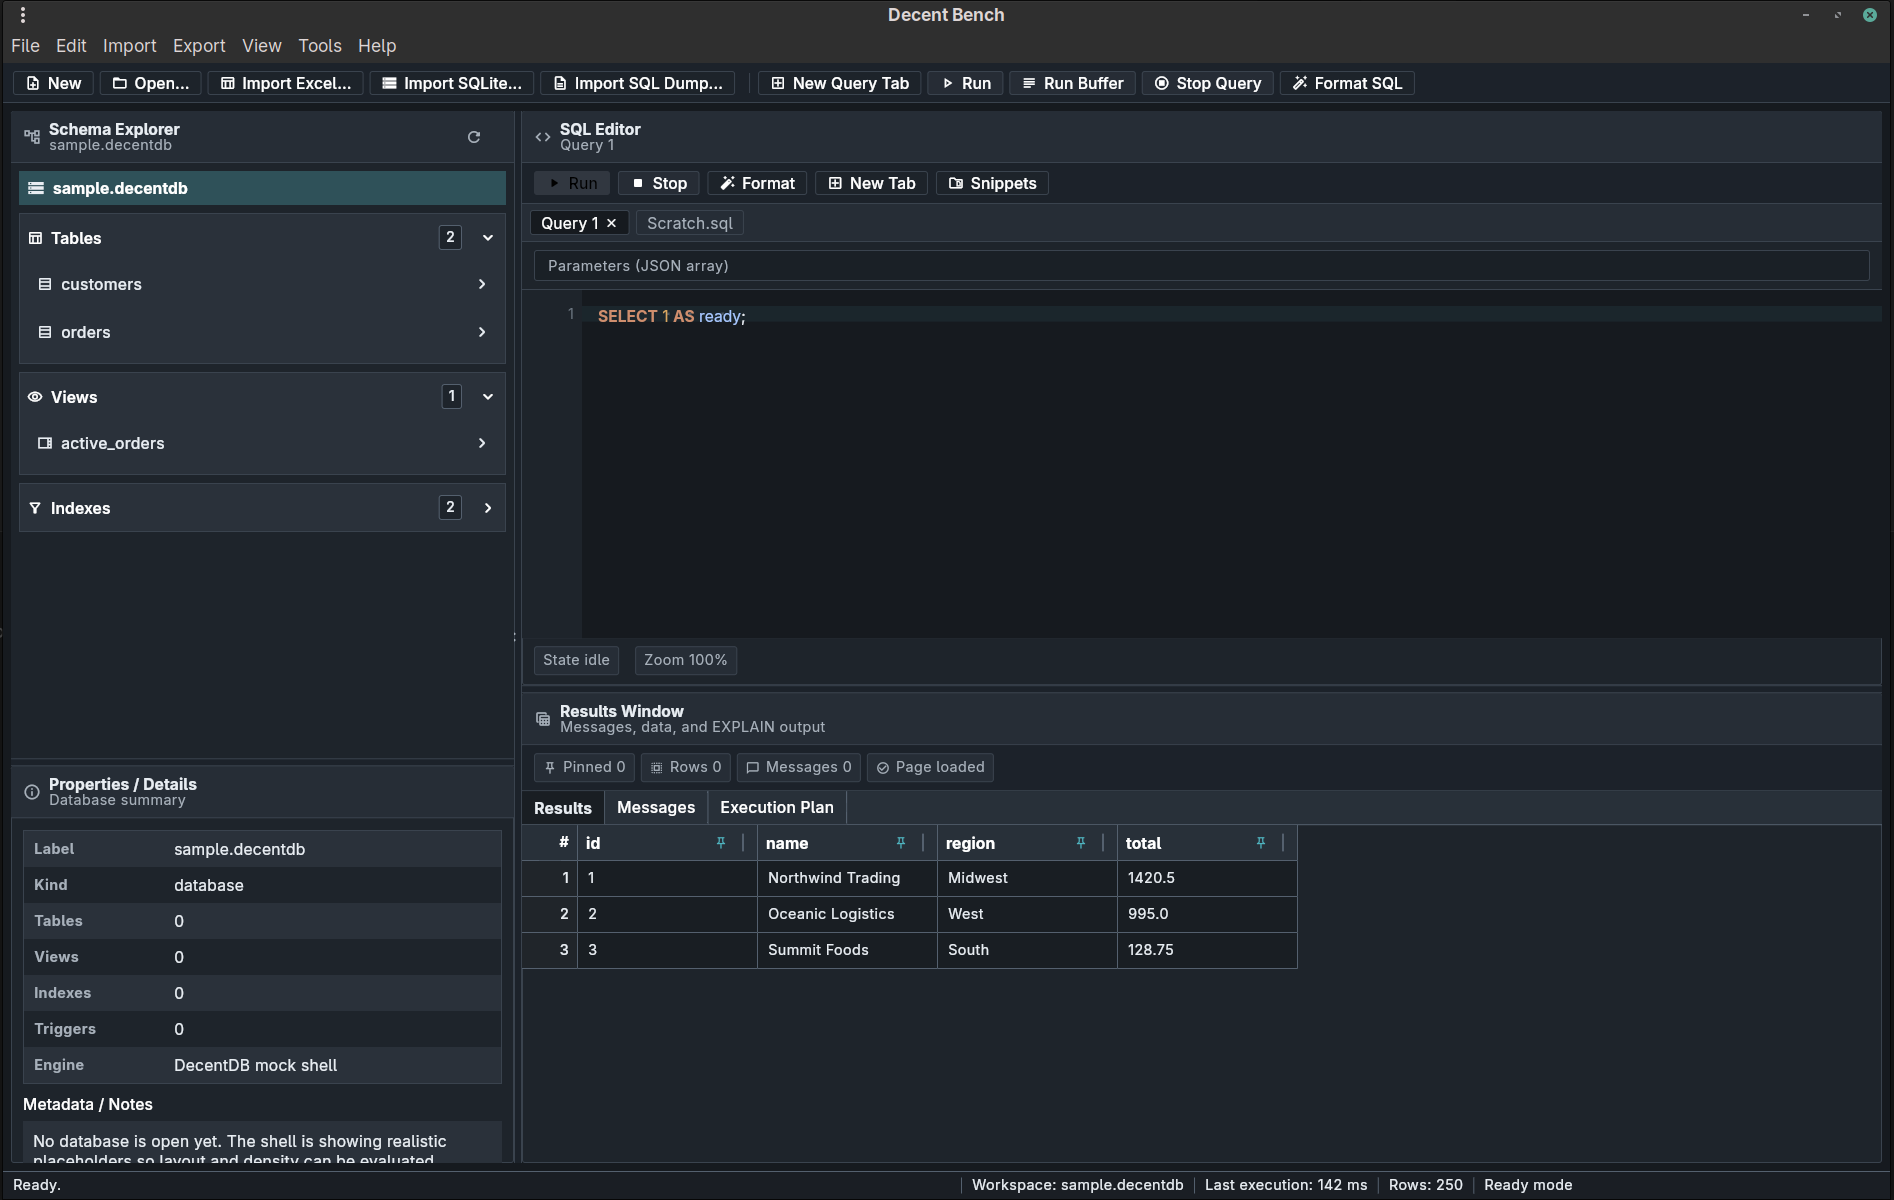
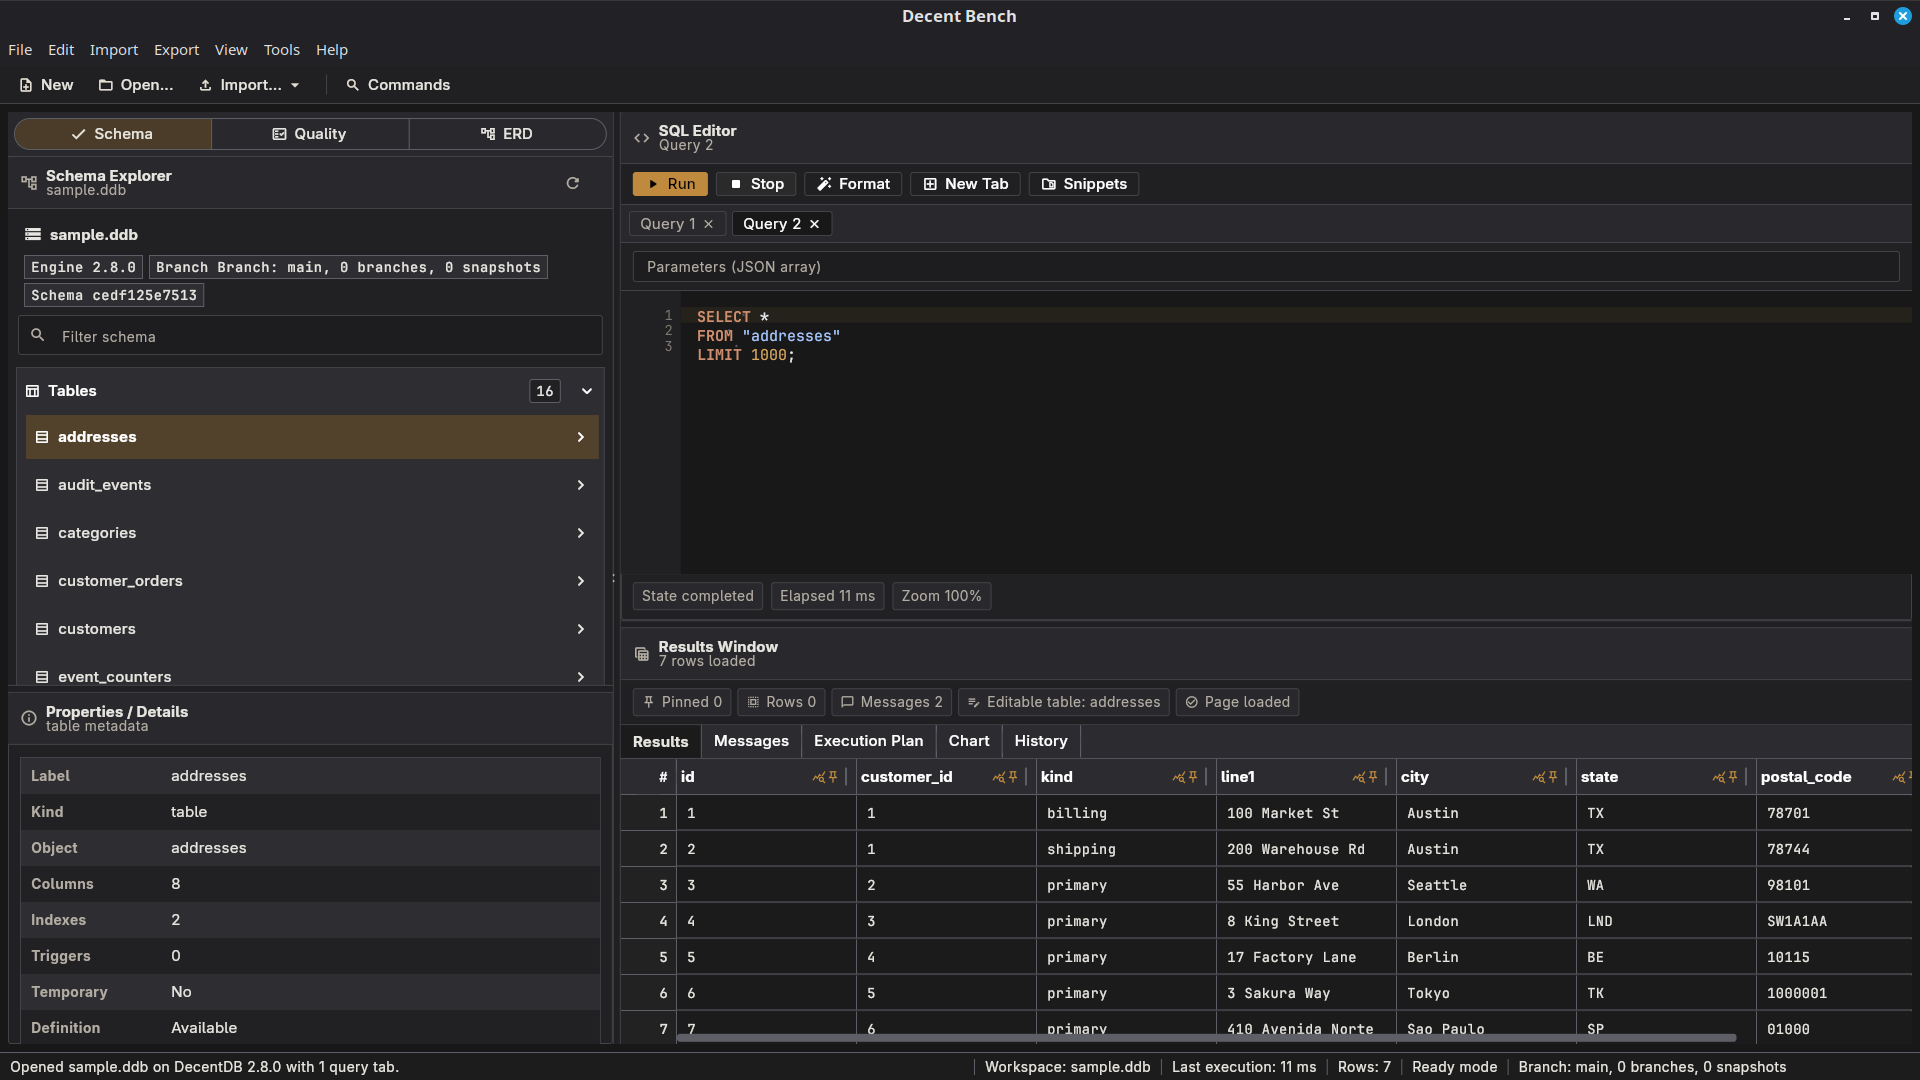
Add screenshot carousel to showcase Decent Bench features

diff --git a/assets/screenshots.html b/assets/screenshots.html
@@ -1,0 +1,73 @@
+<!DOCTYPE html>
+<html lang="en">
+<head>
+<meta charset="UTF-8">
+<meta name="viewport" content="width=device-width, initial-scale=1.0">
+<title>Decent Bench Screenshots</title>
+<style>
+  * { margin: 0; padding: 0; box-sizing: border-box; }
+  body { background: #0d1117; font-family: -apple-system, BlinkMacSystemFont, "Segoe UI", Helvetica, Arial, sans-serif; }
+  .carousel { position: relative; width: 80%; margin:auto; }
+  .carousel-images { position: relative; overflow: hidden; border-radius: 12px; box-shadow: 0 8px 24px rgba(0,0,0,0.4); }
+  .carousel-images a { display: block; }
+  .carousel-images img { width: 100%; display: none; border-radius: 12px; }
+  .carousel-images img.active { display: block; }
+  .carousel-images img:hover { cursor: pointer; }
+  .nav-btn { position: absolute; top: 50%; transform: translateY(-50%); background: rgba(0,0,0,0.5); color: #fff; border: none; font-size: 28px; width: 48px; height: 48px; border-radius: 50%; cursor: pointer; z-index: 10; display: flex; align-items: center; justify-content: center; transition: background 0.2s; }
+  .nav-btn:hover { background: rgba(0,0,0,0.8); }
+  .nav-btn.prev { left: 12px; }
+  .nav-btn.next { right: 12px; }
+  .dots { text-align: center; margin-top: 14px; }
+  .dot { display: inline-block; width: 12px; height: 12px; margin: 0 6px; border-radius: 50%; background: #30363d; cursor: pointer; transition: background 0.2s; }
+  .dot.active { background: #58a6ff; }
+  .counter { text-align: center; color: #8b949e; font-size: 13px; margin-top: 8px; }
+</style>
+</head>
+<body>
+<div class="carousel" id="carousel">
+  <div class="carousel-images" id="slides">
+    <a href="screenshot.png" target="_blank"><img src="screenshot.png" alt="Decent Bench — Schema Explorer" class="active" data-index="0"></a>
+    <a href="screenshot1.png" target="_blank"><img src="screenshot1.png" alt="Decent Bench — Import Wizard" data-index="1"></a>
+    <a href="screenshot2.png" target="_blank"><img src="screenshot2.png" alt="Decent Bench — Query Editor" data-index="2"></a>
+  </div>
+  <button class="nav-btn prev" onclick="changeSlide(-1)">&#8249;</button>
+  <button class="nav-btn next" onclick="changeSlide(1)">&#8250;</button>
+  <div class="dots" id="dots"></div>
+  <div class="counter" id="counter"></div>
+</div>
+<script>
+  const images = document.querySelectorAll('#slides img');
+  const dotsContainer = document.getElementById('dots');
+  const counter = document.getElementById('counter');
+  let current = 0;
+  let timer = null;
+  const INTERVAL = 30000;
+
+  images.forEach((img, i) => {
+    const dot = document.createElement('span');
+    dot.className = 'dot' + (i === 0 ? ' active' : '');
+    dot.onclick = () => goTo(i);
+    dotsContainer.appendChild(dot);
+  });
+
+  function goTo(index) {
+    images[current].classList.remove('active');
+    dotsContainer.children[current].classList.remove('active');
+    current = (index + images.length) % images.length;
+    images[current].classList.add('active');
+    dotsContainer.children[current].classList.add('active');
+    counter.textContent = (current + 1) + ' / ' + images.length;
+    resetTimer();
+  }
+
+  function changeSlide(delta) { goTo(current + delta); }
+
+  function resetTimer() {
+    clearInterval(timer);
+    timer = setInterval(() => changeSlide(1), INTERVAL);
+  }
+
+  goTo(0);
+</script>
+</body>
+</html>

diff --git a/README.md b/README.md
@@ -34,7 +34,11 @@
 </p>
 
 <p align="center">
-  <img src="assets/screenshot.png" alt="Decent Bench App Screenshot" width="800" style="border-radius: 8px; box-shadow: 0 4px 8px rgba(0,0,0,0.1);">
+  <a href="assets/screenshots.html">
+    <img src="assets/screenshot.png" alt="Decent Bench App Screenshot" width="800" style="border-radius: 8px; box-shadow: 0 4px 8px rgba(0,0,0,0.1);">
+  </a>
+  <br>
+  <sub><a href="assets/screenshots.html">View all screenshots &rarr;</a></sub>
 </p>
 
 ---
